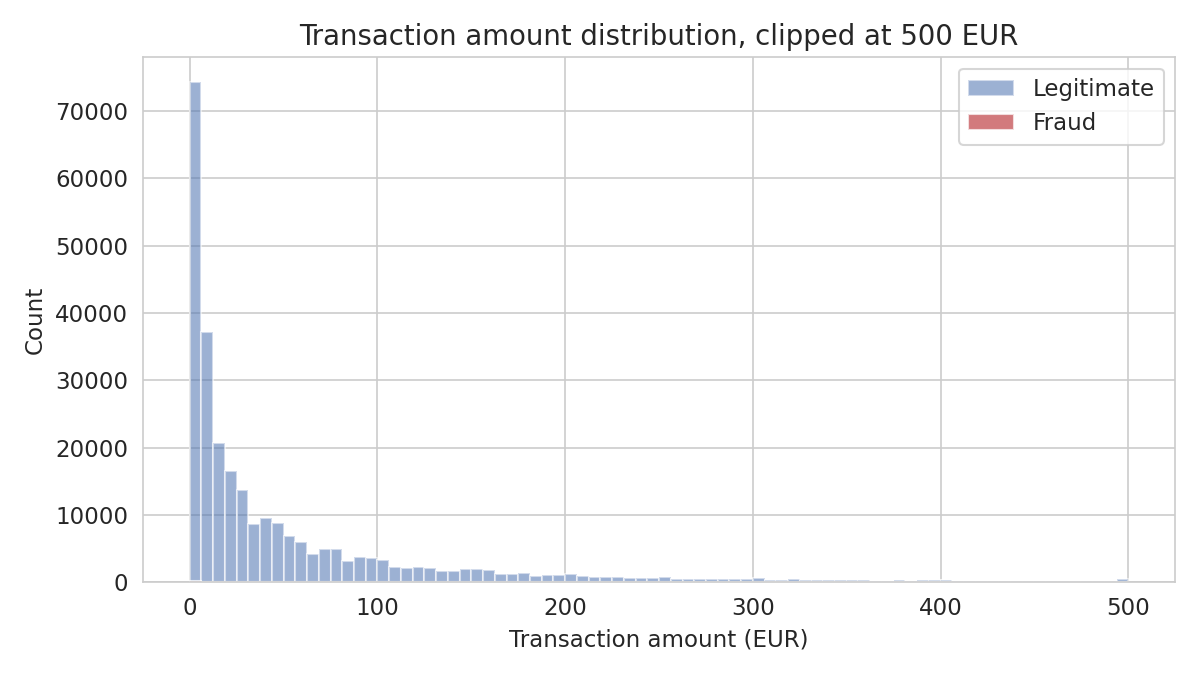
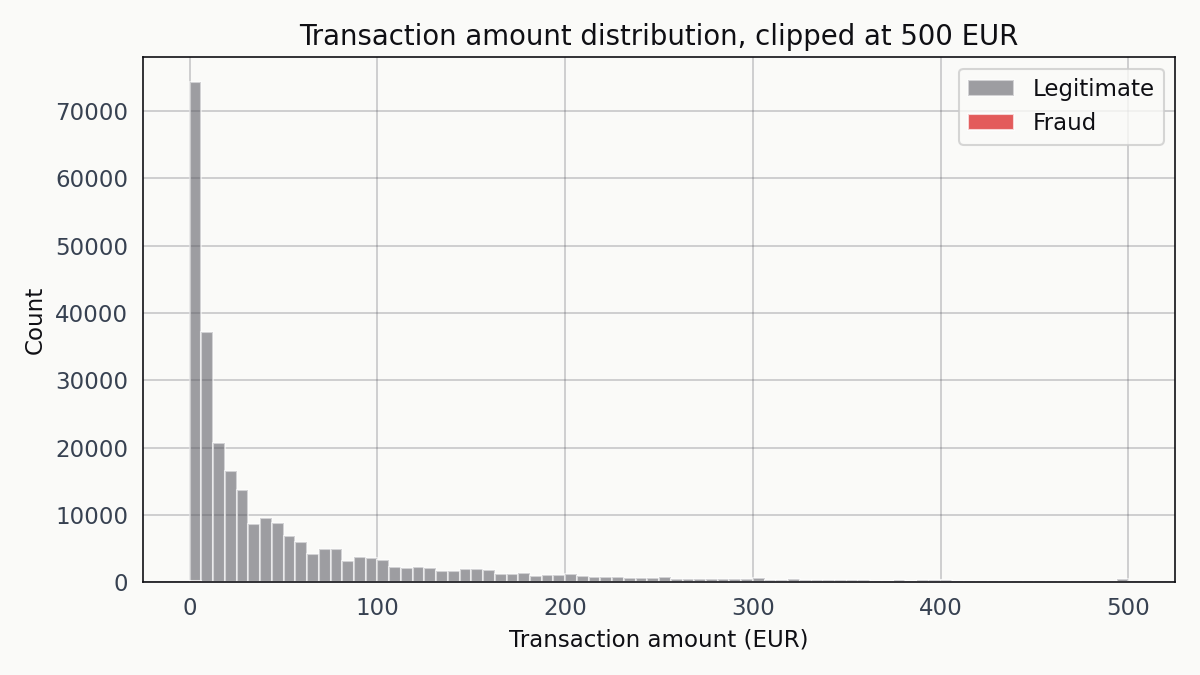
style: bespoke palette and distinct hero card
Replaced the default seaborn colors with a project-specific charcoal/signal-red
palette, refreshed every figure, and added a hero title card that fits the
subject matter. Source palette now lives next to the script in src/_palette.py.

diff --git a/src/run_analysis.py b/src/run_analysis.py
@@ -10,6 +10,7 @@ from __future__ import annotations
 
 import argparse
 import json
+import sys
 from pathlib import Path
 
 import matplotlib.pyplot as plt
@@ -30,12 +31,22 @@ from sklearn.model_selection import train_test_split
 from sklearn.preprocessing import StandardScaler
 from xgboost import XGBClassifier
 
+sys.path.insert(0, str(Path(__file__).resolve().parent))
+from _palette import CREDIT_CARD_FRAUD as P, apply_to_mpl  # noqa: E402
+
 RNG = 42
 COST_FN = 100.0
 COST_FP = 5.0
 
-plt.rcParams.update({"figure.dpi": 120, "savefig.dpi": 150, "font.size": 11})
 sns.set_style("whitegrid")
+apply_to_mpl(P)
+plt.rcParams.update({"figure.dpi": 120, "savefig.dpi": 150, "font.size": 11})
+
+
+def _cmap_blues():
+    """A palette-native cmap running from bg through muted to accent."""
+    from matplotlib.colors import LinearSegmentedColormap
+    return LinearSegmentedColormap.from_list("project", [P.bg, P.muted, P.accent])
 
 
 def parse_args() -> argparse.Namespace:
@@ -49,7 +60,7 @@ def parse_args() -> argparse.Namespace:
 def class_balance_figure(y: pd.Series, path: Path) -> None:
     counts = y.value_counts().sort_index()
     fig, ax = plt.subplots(figsize=(7, 4))
-    bars = ax.bar(["Legitimate", "Fraud"], counts.values, color=["#4c72b0", "#c44e52"])
+    bars = ax.bar(["Legitimate", "Fraud"], counts.values, color=[P.muted, P.accent])
     for bar, val in zip(bars, counts.values):
         ax.text(bar.get_x() + bar.get_width() / 2, val, f"{val:,}", ha="center", va="bottom")
     ax.set_ylabel("Transactions")
@@ -62,8 +73,8 @@ def class_balance_figure(y: pd.Series, path: Path) -> None:
 
 def amount_distribution_figure(df: pd.DataFrame, path: Path) -> None:
     fig, ax = plt.subplots(figsize=(8, 4.5))
-    ax.hist(df.loc[df["Class"] == 0, "Amount"], bins=80, range=(0, 500), alpha=0.55, color="#4c72b0", label="Legitimate")
-    ax.hist(df.loc[df["Class"] == 1, "Amount"], bins=80, range=(0, 500), alpha=0.75, color="#c44e52", label="Fraud")
+    ax.hist(df.loc[df["Class"] == 0, "Amount"], bins=80, range=(0, 500), alpha=0.55, color=P.muted, label="Legitimate")
+    ax.hist(df.loc[df["Class"] == 1, "Amount"], bins=80, range=(0, 500), alpha=0.75, color=P.accent, label="Fraud")
     ax.set_xlabel("Transaction amount (EUR)")
     ax.set_ylabel("Count")
     ax.set_title("Transaction amount distribution, clipped at 500 EUR")
@@ -77,7 +88,7 @@ def time_pattern_figure(df: pd.DataFrame, path: Path) -> None:
     hours = (df["Time"] / 3600).astype(int) % 24
     fraud_rate = df.assign(Hour=hours).groupby("Hour")["Class"].mean() * 1000
     fig, ax = plt.subplots(figsize=(8, 4.5))
-    ax.bar(fraud_rate.index, fraud_rate.values, color="#c44e52")
+    ax.bar(fraud_rate.index, fraud_rate.values, color=P.accent)
     ax.set_xlabel("Hour of day (UTC, derived from Time seconds)")
     ax.set_ylabel("Fraud per 1,000 transactions")
     ax.set_title("Fraud rate by hour: the raw rate is not flat across the day")
@@ -111,10 +122,10 @@ def sweep_costs(y_true: np.ndarray, scores: np.ndarray) -> pd.DataFrame:
 
 def cost_curve_figure(sweep: pd.DataFrame, best_threshold: float, path: Path, title: str) -> None:
     fig, ax = plt.subplots(figsize=(8, 5))
-    ax.plot(sweep["threshold"], sweep["total_cost"], color="#2d3047", label="Total cost")
-    ax.plot(sweep["threshold"], sweep["fraud_missed_cost"], color="#c44e52", ls="--", label="Missed fraud cost")
-    ax.plot(sweep["threshold"], sweep["review_cost"], color="#4c72b0", ls="--", label="Review cost")
-    ax.axvline(best_threshold, color="#e1a94b", ls=":", lw=2, label=f"Min-cost threshold = {best_threshold:.2f}")
+    ax.plot(sweep["threshold"], sweep["total_cost"], color=P.header_bg, label="Total cost")
+    ax.plot(sweep["threshold"], sweep["fraud_missed_cost"], color=P.accent, ls="--", label="Missed fraud cost")
+    ax.plot(sweep["threshold"], sweep["review_cost"], color=P.muted, ls="--", label="Review cost")
+    ax.axvline(best_threshold, color=P.cover_subtitle, ls=":", lw=2, label=f"Min-cost threshold = {best_threshold:.2f}")
     ax.set_xlabel("Decision threshold")
     ax.set_ylabel(f"Expected cost (EUR, with $FN={int(COST_FN)}, $FP={int(COST_FP)})")
     ax.set_title(title)
@@ -131,7 +142,7 @@ def pr_curve_figure(y_true: np.ndarray, model_scores: dict, path: Path) -> None:
         ap = average_precision_score(y_true, scores)
         ax.plot(recall, precision, color=color, lw=2, label=f"{name} (AP = {ap:.3f})")
     baseline = y_true.mean()
-    ax.axhline(baseline, color="gray", ls=":", label=f"Baseline = {baseline:.4f}")
+    ax.axhline(baseline, color=P.muted, ls=":", label=f"Baseline = {baseline:.4f}")
     ax.set_xlabel("Recall")
     ax.set_ylabel("Precision")
     ax.set_title("Precision-recall curves, test set")
@@ -145,7 +156,7 @@ def confusion_figure(y_true: np.ndarray, y_pred: np.ndarray, title: str, path: P
     cm = confusion_matrix(y_true, y_pred, labels=[0, 1])
     fig, ax = plt.subplots(figsize=(5.5, 4.5))
     sns.heatmap(
-        cm, annot=True, fmt=",d", cmap="Blues", cbar=False,
+        cm, annot=True, fmt=",d", cmap=_cmap_blues(), cbar=False,
         xticklabels=["Pred legit", "Pred fraud"],
         yticklabels=["Actual legit", "Actual fraud"], ax=ax,
     )
@@ -207,9 +218,9 @@ def main() -> None:
     pr_curve_figure(
         y_test,
         {
-            "Logistic regression": (logreg_scores, "#4c72b0"),
-            "XGBoost": (xgb_scores, "#c44e52"),
-            "Isolation Forest": (iforest_scores, "#55a868"),
+            "Logistic regression": (logreg_scores, P.muted),
+            "XGBoost": (xgb_scores, P.accent),
+            "Isolation Forest": (iforest_scores, P.cover_subtitle),
         },
         fig_dir / "precision-recall.png",
     )
@@ -268,8 +279,8 @@ def main() -> None:
                 best_t = t
         frames_data.append((ratio, np.array(costs), best_t, best_c))
 
-    line, = ax.plot([], [], lw=2, color="#2d3047")
-    vline = ax.axvline(0, color="#e1a94b", ls=":", lw=2)
+    line, = ax.plot([], [], lw=2, color=P.header_bg)
+    vline = ax.axvline(0, color=P.cover_subtitle, ls=":", lw=2)
     txt = ax.text(0.02, 0.95, "", transform=ax.transAxes, fontsize=11, va="top")
     ax.set_xlim(0, 1)
     all_costs = np.concatenate([fc[1] for fc in frames_data])
@@ -289,7 +300,7 @@ def main() -> None:
     # Class distribution across V1..V28 for a random pair of features
     fig, axes = plt.subplots(2, 3, figsize=(12, 7))
     for ax_, feat in zip(axes.flat, ["V1", "V3", "V4", "V10", "V14", "V17"]):
-        sns.kdeplot(data=df, x=feat, hue="Class", ax=ax_, common_norm=False, palette=["#4c72b0", "#c44e52"], fill=True, alpha=0.35)
+        sns.kdeplot(data=df, x=feat, hue="Class", ax=ax_, common_norm=False, palette=[P.muted, P.accent], fill=True, alpha=0.35)
         ax_.set_title(f"{feat} density by class")
     plt.suptitle("Where the PCA features actually separate the classes", y=1.01)
     fig.tight_layout()

diff --git a/src/_palette.py b/src/_palette.py
@@ -1,0 +1,192 @@
+"""Palette definitions for the ten expansion projects.
+
+Follow the structure in scripts/presentation-design-guide.md: header_bg, accent,
+accent_text, cover_subtitle, bg, text, message_text, muted, highlight, footer_bg.
+Choices grounded in subject-matter cues (Valdez-Mehrabian 1994 PAD model).
+"""
+from dataclasses import dataclass, asdict
+
+
+@dataclass
+class Palette:
+    header_bg: str
+    accent: str
+    accent_text: str
+    cover_subtitle: str
+    bg: str
+    text: str
+    message_text: str
+    muted: str
+    highlight: str
+    footer_bg: str
+
+    def as_dict(self):
+        return asdict(self)
+
+    def mpl_colors(self):
+        """Six-color sequence for multi-series charts, in priority order."""
+        return [self.accent, self.header_bg, self.highlight, self.muted, self.accent_text, self.cover_subtitle]
+
+    def binary_colors(self):
+        """Two-color pair for binary targets: (negative class, positive class)."""
+        return (self.muted, self.accent)
+
+
+# 1. credit-card-fraud — forensic accounting, charcoal-navy + signal red.
+CREDIT_CARD_FRAUD = Palette(
+    header_bg="#1a1d29",
+    accent="#dc2626",
+    accent_text="#fca5a5",
+    cover_subtitle="#fbbf24",
+    bg="#fafaf8",
+    text="#0f0f14",
+    message_text="#374151",
+    muted="#52525b",
+    highlight="#0ea5e9",
+    footer_bg="#e5e5e0",
+)
+
+# 2. telco-churn-shap — cool retention teal + churn-warning orange.
+TELCO_CHURN = Palette(
+    header_bg="#0f3d3e",
+    accent="#ea580c",
+    accent_text="#fdba74",
+    cover_subtitle="#5eead4",
+    bg="#fbfaf5",
+    text="#0c1416",
+    message_text="#334155",
+    muted="#64748b",
+    highlight="#f59e0b",
+    footer_bg="#e8e5da",
+)
+
+# 3. airbnb-nyc-price — manhattan night sky + golden-hour amber + map-marker pink.
+AIRBNB_NYC = Palette(
+    header_bg="#1e1b4b",
+    accent="#f59e0b",
+    accent_text="#fde68a",
+    cover_subtitle="#fca5a5",
+    bg="#fdf6ec",
+    text="#0a0a23",
+    message_text="#44403c",
+    muted="#78716c",
+    highlight="#ec4899",
+    footer_bg="#efe6d4",
+)
+
+# 4. spotify-recommender — emerald music with violet genre cue.
+SPOTIFY = Palette(
+    header_bg="#064e3b",
+    accent="#10b981",
+    accent_text="#86efac",
+    cover_subtitle="#6ee7b7",
+    bg="#f8fafc",
+    text="#0f1f1b",
+    message_text="#334155",
+    muted="#64748b",
+    highlight="#8b5cf6",
+    footer_bg="#e2e8f0",
+)
+
+# 5. netflix-content-recommender — cinema house: merlot + popcorn yellow.
+NETFLIX = Palette(
+    header_bg="#450a0a",
+    accent="#dc2626",
+    accent_text="#fca5a5",
+    cover_subtitle="#f87171",
+    bg="#fafaf9",
+    text="#0c0a09",
+    message_text="#44403c",
+    muted="#78716c",
+    highlight="#eab308",
+    footer_bg="#f5f5f4",
+)
+
+# 6. house-prices-ames — craftsman architecture: burnt sienna + porch-plant green.
+HOUSE_PRICES_AMES = Palette(
+    header_bg="#7c2d12",
+    accent="#ea580c",
+    accent_text="#fdba74",
+    cover_subtitle="#fed7aa",
+    bg="#fef7ed",
+    text="#1c0f0a",
+    message_text="#44403c",
+    muted="#78716c",
+    highlight="#15803d",
+    footer_bg="#fde68a",
+)
+
+# 7. nyc-taxi-trip-duration — urban asphalt + taxi yellow + traffic red.
+NYC_TAXI = Palette(
+    header_bg="#1c1917",
+    accent="#facc15",
+    accent_text="#fde047",
+    cover_subtitle="#fcd34d",
+    bg="#fafaf9",
+    text="#0a0a0a",
+    message_text="#44403c",
+    muted="#57534e",
+    highlight="#ef4444",
+    footer_bg="#e7e5e4",
+)
+
+# 8. bike-sharing-demand — leafy forest + sunrise orange + sky blue.
+BIKE_SHARING = Palette(
+    header_bg="#14532d",
+    accent="#f97316",
+    accent_text="#fdba74",
+    cover_subtitle="#bef264",
+    bg="#fefce8",
+    text="#0a1a0a",
+    message_text="#44403c",
+    muted="#78716c",
+    highlight="#3b82f6",
+    footer_bg="#eef2e8",
+)
+
+# 9. olist-ecommerce-analytics — Brazilian flag: green + yellow + deep blue.
+OLIST = Palette(
+    header_bg="#166534",
+    accent="#fbbf24",
+    accent_text="#fde047",
+    cover_subtitle="#bef264",
+    bg="#fffbeb",
+    text="#0a2a14",
+    message_text="#44403c",
+    muted="#6b7280",
+    highlight="#1e40af",
+    footer_bg="#fef3c7",
+)
+
+# 10. youtube-global-stats — creator studio: noir + signal red + monetisation yellow.
+YOUTUBE_GLOBAL = Palette(
+    header_bg="#0a0a0a",
+    accent="#ef4444",
+    accent_text="#fca5a5",
+    cover_subtitle="#f87171",
+    bg="#fafafa",
+    text="#0a0a0a",
+    message_text="#44403c",
+    muted="#737373",
+    highlight="#fbbf24",
+    footer_bg="#e5e5e5",
+)
+
+
+def apply_to_mpl(palette: Palette) -> None:
+    """Patch matplotlib rcParams with the project palette so default charts land on-brand."""
+    import matplotlib as mpl
+    mpl.rcParams.update({
+        "figure.facecolor": palette.bg,
+        "axes.facecolor": palette.bg,
+        "savefig.facecolor": palette.bg,
+        "axes.edgecolor": palette.text,
+        "axes.labelcolor": palette.text,
+        "axes.titlecolor": palette.text,
+        "xtick.color": palette.message_text,
+        "ytick.color": palette.message_text,
+        "text.color": palette.text,
+        "grid.color": palette.muted,
+        "grid.alpha": 0.3,
+        "axes.prop_cycle": mpl.cycler(color=palette.mpl_colors()),
+    })
